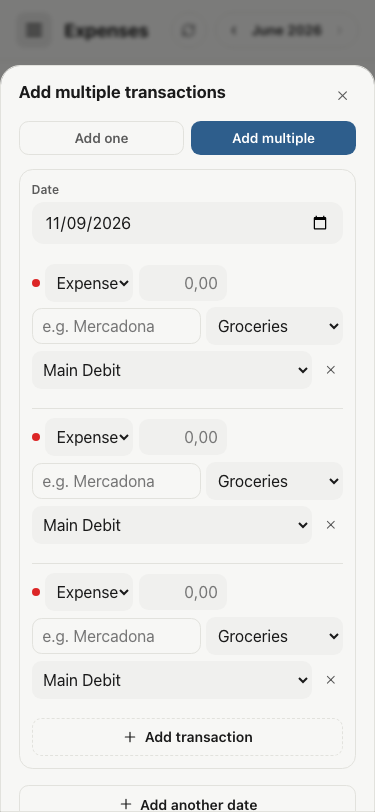
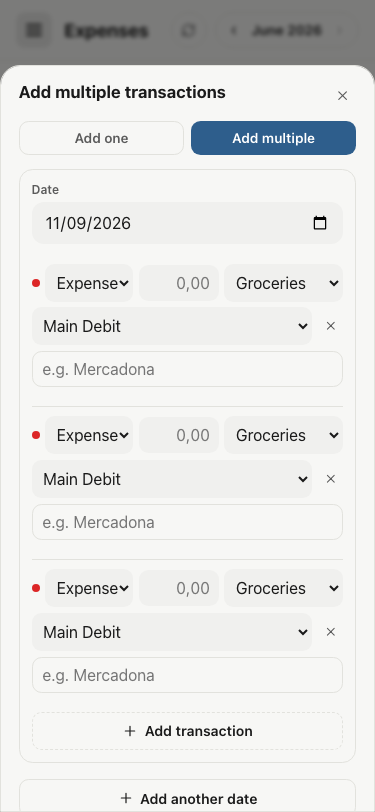
Polish compact rows: description on own line, fix header alignment
Move the description input to a dedicated full-width row below the
meta fields (type, amount, category, account) so typed text is always
readable. Restructure each row into a .rowMeta flex container + a
.compactDescription block. Column headers now cover only the meta
fields and align correctly on desktop.

diff --git a/src/ui/components/BatchTransactionForm.tsx b/src/ui/components/BatchTransactionForm.tsx
@@ -219,7 +219,6 @@ export function BatchTransactionForm({
             <span className={styles.colHeaderDot} />
             <span className={styles.colHeaderType}>Type</span>
             <span className={styles.colHeaderAmount}>Amount</span>
-            <span className={styles.colHeaderDesc}>Description</span>
             <span className={styles.colHeaderCat}>Category</span>
             <span className={styles.colHeaderAcct}>Account</span>
             <span className={styles.colHeaderRemove} />
@@ -227,27 +226,57 @@ export function BatchTransactionForm({
 
           {batch.rows.map((row) => (
             <div key={row.id} id={rowElementId(row.id)} className={styles.row}>
-              <span className={styles.typeDot} data-type={row.type} aria-hidden="true" />
-              <select
-                className={styles.compactType}
-                value={row.type}
-                aria-label="Type"
-                onChange={(e) => updateRow(batch.id, row.id, { type: e.target.value as TxnType })}
-              >
-                {TYPE_OPTIONS.map((t) => (
-                  <option key={t.value} value={t.value}>{t.label}</option>
-                ))}
-              </select>
-              <input
-                className={styles.compactAmount}
-                type="text"
-                inputMode="decimal"
-                autoComplete="off"
-                aria-label="Amount"
-                placeholder={`0${format.decimalSeparator}00`}
-                value={row.amount}
-                onChange={(e) => updateRow(batch.id, row.id, { amount: e.target.value })}
-              />
+              <div className={styles.rowMeta}>
+                <span className={styles.typeDot} data-type={row.type} aria-hidden="true" />
+                <select
+                  className={styles.compactType}
+                  value={row.type}
+                  aria-label="Type"
+                  onChange={(e) => updateRow(batch.id, row.id, { type: e.target.value as TxnType })}
+                >
+                  {TYPE_OPTIONS.map((t) => (
+                    <option key={t.value} value={t.value}>{t.label}</option>
+                  ))}
+                </select>
+                <input
+                  className={styles.compactAmount}
+                  type="text"
+                  inputMode="decimal"
+                  autoComplete="off"
+                  aria-label="Amount"
+                  placeholder={`0${format.decimalSeparator}00`}
+                  value={row.amount}
+                  onChange={(e) => updateRow(batch.id, row.id, { amount: e.target.value })}
+                />
+                <select
+                  className={styles.compactSelect}
+                  value={row.categoryId}
+                  aria-label="Category"
+                  onChange={(e) => updateRow(batch.id, row.id, { categoryId: Number(e.target.value) })}
+                >
+                  {selectableOptions(model.dataset.categories, row.categoryId).map((c) => (
+                    <option key={c.id} value={c.id}>{optionLabel(c)}</option>
+                  ))}
+                </select>
+                <select
+                  className={styles.compactSelect}
+                  value={row.accountId}
+                  aria-label="Account"
+                  onChange={(e) => updateRow(batch.id, row.id, { accountId: Number(e.target.value) })}
+                >
+                  {selectableOptions(model.dataset.accounts, row.accountId).map((a) => (
+                    <option key={a.id} value={a.id}>{optionLabel(a)}</option>
+                  ))}
+                </select>
+                <button
+                  type="button"
+                  className={styles.removeRow}
+                  aria-label="Remove this transaction"
+                  onClick={() => removeRow(batch.id, row.id)}
+                >
+                  <CloseIcon />
+                </button>
+              </div>
               <div className={styles.compactDescription}>
                 <DescriptionCombobox
                   value={row.description}
@@ -257,34 +286,6 @@ export function BatchTransactionForm({
                   onAccept={(s) => onAcceptSuggestion(batch.id, row.id, s)}
                 />
               </div>
-              <select
-                className={styles.compactSelect}
-                value={row.categoryId}
-                aria-label="Category"
-                onChange={(e) => updateRow(batch.id, row.id, { categoryId: Number(e.target.value) })}
-              >
-                {selectableOptions(model.dataset.categories, row.categoryId).map((c) => (
-                  <option key={c.id} value={c.id}>{optionLabel(c)}</option>
-                ))}
-              </select>
-              <select
-                className={styles.compactSelect}
-                value={row.accountId}
-                aria-label="Account"
-                onChange={(e) => updateRow(batch.id, row.id, { accountId: Number(e.target.value) })}
-              >
-                {selectableOptions(model.dataset.accounts, row.accountId).map((a) => (
-                  <option key={a.id} value={a.id}>{optionLabel(a)}</option>
-                ))}
-              </select>
-              <button
-                type="button"
-                className={styles.removeRow}
-                aria-label="Remove this transaction"
-                onClick={() => removeRow(batch.id, row.id)}
-              >
-                <CloseIcon />
-              </button>
               {errors[row.id] && <p className={formStyles.error}>{errors[row.id]}</p>}
             </div>
           ))}

diff --git a/src/ui/components/BatchTransactionForm.module.css b/src/ui/components/BatchTransactionForm.module.css
@@ -4,9 +4,6 @@
   gap: 1rem;
 }
 
-/* Author-origin `display: flex` above otherwise beats the UA `[hidden]` rule
-   regardless of specificity — this form stays mounted (not unmounted) while the
-   single-transaction tab is active, so it needs an explicit rule to actually disappear. */
 .root[hidden] {
   display: none;
 }
@@ -33,17 +30,21 @@
 
 .row {
   display: flex;
-  flex-wrap: wrap;
+  flex-direction: column;
   gap: 0.35rem;
   padding: 0.6rem 0;
-  position: relative;
-  align-items: center;
 }
 .row + .row {
   border-top: 1px solid var(--color-border);
 }
 
-/* Colored left accent showing the transaction type at a glance. */
+.rowMeta {
+  display: flex;
+  flex-wrap: wrap;
+  gap: 0.35rem;
+  align-items: center;
+}
+
 .typeDot {
   width: 0.5rem;
   height: 0.5rem;
@@ -64,7 +65,6 @@
   background: var(--exp-refund);
 }
 
-/* No label wrapping — these are bare inputs/selects inside the compact row. */
 .compactType {
   width: 5.5rem;
   flex: none;
@@ -82,7 +82,7 @@
 }
 
 .compactAmount {
-  width: 5.5rem;
+  width: 5rem;
   flex: none;
   padding: 0.5rem 0.5rem;
   border: 1px solid transparent;
@@ -104,19 +104,15 @@
 }
 
 .compactDescription {
-  flex: 1 1 8rem;
   min-width: 0;
 }
-/* DescriptionCombobox renders its own <input> inside a wrapper, so target the
-   actual input to match the compact row's sizing. */
 .compactDescription input {
   padding: 0.5rem 0.6rem !important;
   font-size: 0.88rem !important;
 }
 
-/* Category and Account sit on the second line (mobile) or continue inline (desktop). */
 .compactSelect {
-  flex: 1 1 6rem;
+  flex: 1 1 5rem;
   min-width: 0;
   padding: 0.5rem 0.4rem;
   border: 1px solid transparent;
@@ -162,11 +158,7 @@
 /* ─── Column headers ──────────────────────────────────────────────────────── */
 
 .columnHeaders {
-  display: flex;
-  flex-wrap: wrap;
-  gap: 0.35rem;
-  padding: 0 0 0.15rem;
-  align-items: center;
+  display: none;
 }
 .columnHeaders span {
   font-size: 0.7rem;
@@ -175,7 +167,6 @@
   text-transform: uppercase;
   letter-spacing: 0.03em;
 }
-/* Mirror the field widths so headers align with inputs. */
 .colHeaderDot {
   width: 0.5rem;
   flex: none;
@@ -185,19 +176,15 @@
   flex: none;
 }
 .colHeaderAmount {
-  width: 5.5rem;
+  width: 6rem;
   flex: none;
 }
-.colHeaderDesc {
-  flex: 1 1 8rem;
-  min-width: 0;
-}
 .colHeaderCat {
-  flex: 1 1 6rem;
+  flex: 1 1 5rem;
   min-width: 0;
 }
 .colHeaderAcct {
-  flex: 1 1 6rem;
+  flex: 1 1 5rem;
   min-width: 0;
 }
 .colHeaderRemove {
@@ -242,21 +229,20 @@
 
 /* ─── Responsive ──────────────────────────────────────────────────────────── */
 
-/* Hide column headers on mobile — the wrapping layout makes them misleading. */
-.columnHeaders {
-  display: none;
-}
-
 @media (min-width: 560px) {
   .columnHeaders {
     display: flex;
+    flex-wrap: wrap;
+    gap: 0.35rem;
+    padding: 0 0 0.15rem;
+    align-items: center;
+  }
+
+  .rowMeta {
+    flex-wrap: nowrap;
   }
 
   .compactAmount {
-    width: 6rem;
-  }
-
-  .colHeaderAmount {
     width: 6rem;
   }
 }
